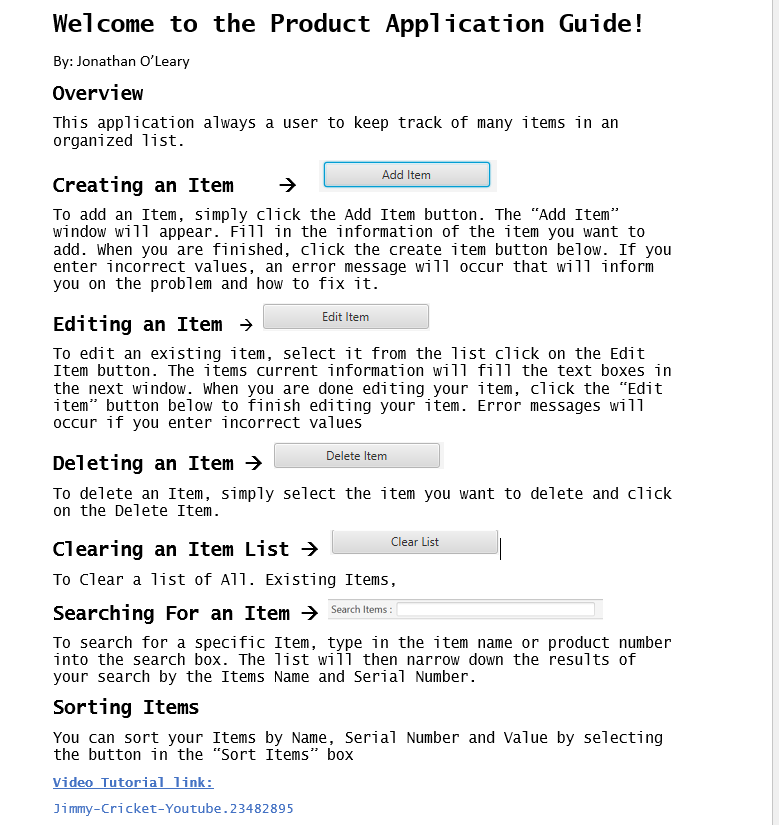
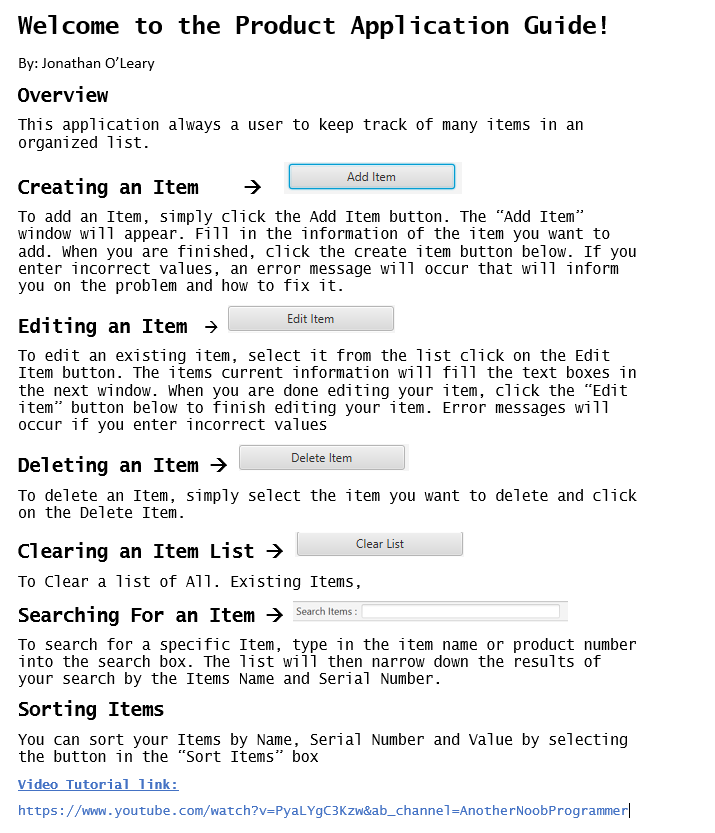
Final commit (Youtube Link)

Changed region(s): [[0.0, 0.0, 0.8923, 1.0], [0.9846, 0.0, 1.0, 1.0], [0.4923, 0.0, 0.8308, 0.0606]]

diff --git a/README.md b/README.md
@@ -1,1 +1,43 @@
-# OLeary-app2
+Welcome to the Product Application Guide!
+By: Jonathan O’Leary 
+
+-Overview-
+This application always a user to keep track of many items in an organized list.
+
+-Creating an Item-
+To add an Item, simply click the Add Item button. The “Add Item” window will appear. 
+Fill in the information of the item you want to add. When you are finished, 
+click the create item button below. If you enter incorrect values, an error message 
+will occur that will inform you on the problem and how to fix it. 
+
+-Editing an Item-
+To edit an existing item, select it from the list click on the Edit Item button. 
+The items current information will fill the text boxes in the next window. When 
+you are done editing your item, click the “Edit item” button below to finish 
+editing your item. Error messages will occur if you enter incorrect values
+
+-Deleting an Item-
+To delete an Item, simply select the item you want to delete and click on the Delete Item. 
+
+-Clearing an Item List-
+To Clear a list of All Existing Items. 
+
+-Searching For an Item-
+You can sort your Items by Name, Serial Number and Value by selecting the 
+button in the “Sort Items” box
+
+-Saving Items by TSV, HTML, Json-
+To save your Data, click on the file tab at the top right of the screen. A menu will 
+pop up on your screen asking which file type you want to save your data in. Click on 
+the button associated with your file. Then a file locator will ask you to designate 
+a location to save your file. Click the save file button to save your item list to that file.
+
+-Loading Items by TSV, HTML, JSON-
+To load data from a file, click on the file tab at the top right of the screen. A menu 
+will pop up on your screen asking which file type you want to load. Click the button 
+associated with your file type. A file locator will appear and ask you to select the file 
+you wish to load in. Select the file and hit the “Save” button. Even though the button 
+says save your list will still appear in the ViewBox on the main app. 
+
+**YOUTUBE LINK***
+https://www.youtube.com/watch?v=PyaLYgC3Kzw&ab_channel=AnotherNoobProgrammer
